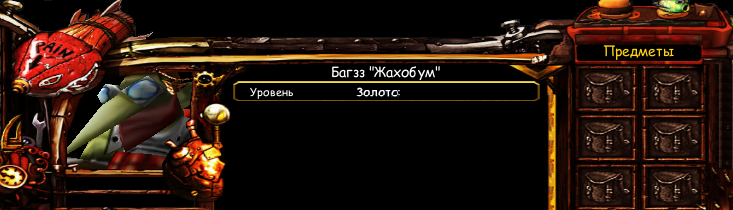
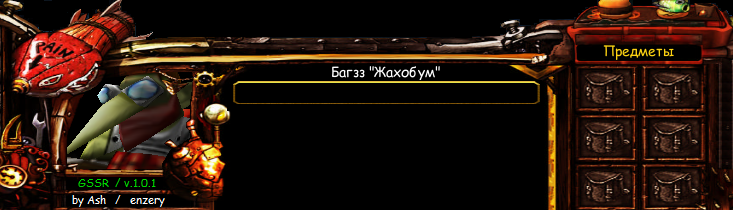
fix some bags

Changed region(s): [[0.3001, 0.4, 0.7503, 0.5143], [0.09, 0.9143, 0.2401, 0.9714], [0.09, 0.8571, 0.2101, 0.9143]]

diff --git a/main.py b/main.py
@@ -1,12 +1,13 @@
-# -*- coding: utf-8 -*-
-print 'TODO: '
+# -*- coding: utf-8 -*-
+'''print 'TODO: '
 print '1) Добавить всплывющее сообение о том, что сейв скопирован при нажатии на кнопку "copy"'
 print '2) Изменить цвет названия предмета на цвет предмета'
 print '3) Исправить изображение temp/bg2.png'
-
+'''
 import os
 import sys
 
+from json import loads
 from Tkinter import *
 from PIL import Image, ImageTk
 
@@ -51,8 +52,7 @@ class GoblinWindow:
         self.background.place( x = 0, y = 0 )
         self.win.geometry( get_left_of(root) )
         self.win.withdraw()
-        #TODO:
-        #self.win.overrideredirect( True )
+        self.win.overrideredirect( not is_window )
         self.win.title( name )
         self.win.tkraise()
         self.buttons = {
@@ -94,14 +94,14 @@ class GoblinWindow:
         self.gold = '3000'
         self.date =  self.parser()
         self.labels = {
-            'lvl'   : MyLabel(self.win, 'Уровень: {0}'.format(self.date['lvl']['val']), y = 84, x = 250, font = 'comic-sans 7' ),
-            'gold'  : MyLabel(self.win, 'Золото: {0}'.format(self.date['gold']['val']), y = 84, x = 350, font = 'comic-sans 7' ),
-            'item1' : MyLabel(self.win, self.date['item1']['val'], y = 101, x= 250, color = self.date['item1']['color'] ),
-            'item2' : MyLabel(self.win, self.date['item2']['val'], y = 117, x= 250, color = self.date['item2']['color'] ),
-            'item3' : MyLabel(self.win, self.date['item3']['val'], y = 133, x= 250, color = self.date['item3']['color'] ),
-            'item4' : MyLabel(self.win, self.date['item4']['val'], y = 150, x= 250, color = self.date['item4']['color'] ),
-            'item5' : MyLabel(self.win, self.date['item5']['val'], y = 167, x= 250, color = self.date['item5']['color'] ),
-            'item6' : MyLabel(self.win, self.date['item6']['val'], y = 184, x= 250, color = self.date['item6']['color'] )
+            'lvl'   : MyLabel(self.win, 'Уровень: {0}'.format(self.date['lvl']['val']), y = 83, x = 280, font = 'comic-sans 8' ),
+            'gold'  : MyLabel(self.win, 'Золото: {0}'.format(self.date['gold']['val']), y = 83, x = 400, font = 'comic-sans 8' ),
+            'item1' : MyLabel(self.win, self.date['item1']['val'], y = 104, x= 250, color = self.date['item1']['color'] ),
+            'item2' : MyLabel(self.win, self.date['item2']['val'], y = 121, x= 250, color = self.date['item2']['color'] ),
+            'item3' : MyLabel(self.win, self.date['item3']['val'], y = 138, x= 250, color = self.date['item3']['color'] ),
+            'item4' : MyLabel(self.win, self.date['item4']['val'], y = 155, x= 250, color = self.date['item4']['color'] ),
+            'item5' : MyLabel(self.win, self.date['item5']['val'], y = 172, x= 250, color = self.date['item5']['color'] ),
+            'item6' : MyLabel(self.win, self.date['item6']['val'], y = 189, x= 250, color = self.date['item6']['color'] )
         }
 
 
@@ -215,7 +215,7 @@ def get_right_down(scr, app_width=330, app_height=210):
         app_width,
         app_height,
         int( width - app_width),
-        int( height - app_height)
+        int( height - app_height) - 40
         #int( ( width / 2.0 ) - ( app_width / 2.0 ) ),
         #int( ( height / 2.0 ) - ( app_height / 2.0 ) ),
         )
@@ -242,17 +242,17 @@ def get_left_of(scr, app_width=733 , app_height=210 ):
     )
 
 work_dir = module_path()
-print work_dir#, __name__
+print work_dir
 
-
+with open('./config.txt') as f:
+    is_window = loads( f.read() )['overrideredirect']
 root = Tk()
 root.resizable(False, False)
 root.config( bg='black' )
 root.grid_columnconfigure( 0, pad=0 )
 root.grid_rowconfigure( 0, pad=0 )
 root.title( ' < GSSaveReader > ' )
-#TODO:
-#root.overrideredirect( True )
+root.overrideredirect( not is_window )
 root.tkraise()
 root.geometry( get_right_down( root ) )
 
@@ -320,8 +320,5 @@ for goblin in gobins:
         goblin_arr.append(
             GoblinButton(goblin['name'], goblin['y'], goblin['x'], root)
                         )
-
-if __name__ == '__main__':
+if __name__ == '_ _main__':
     root.mainloop()
-else:
-    print '__name__ == ' + __name__
